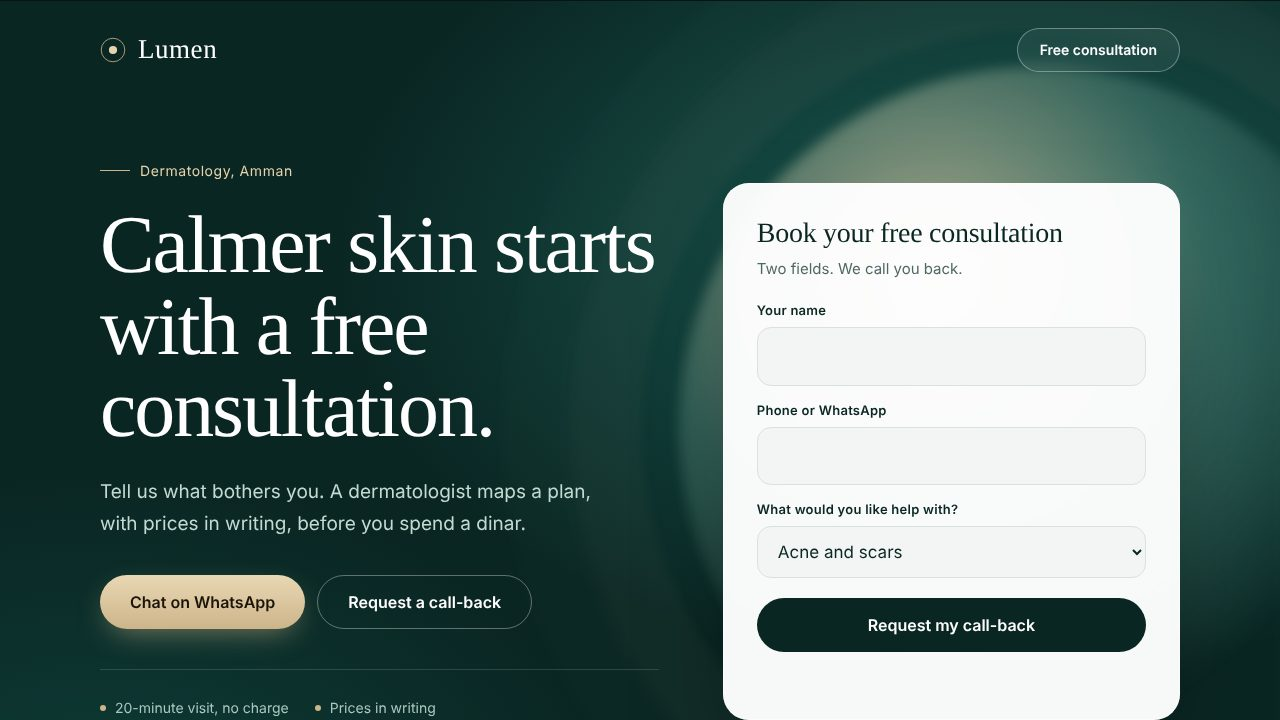
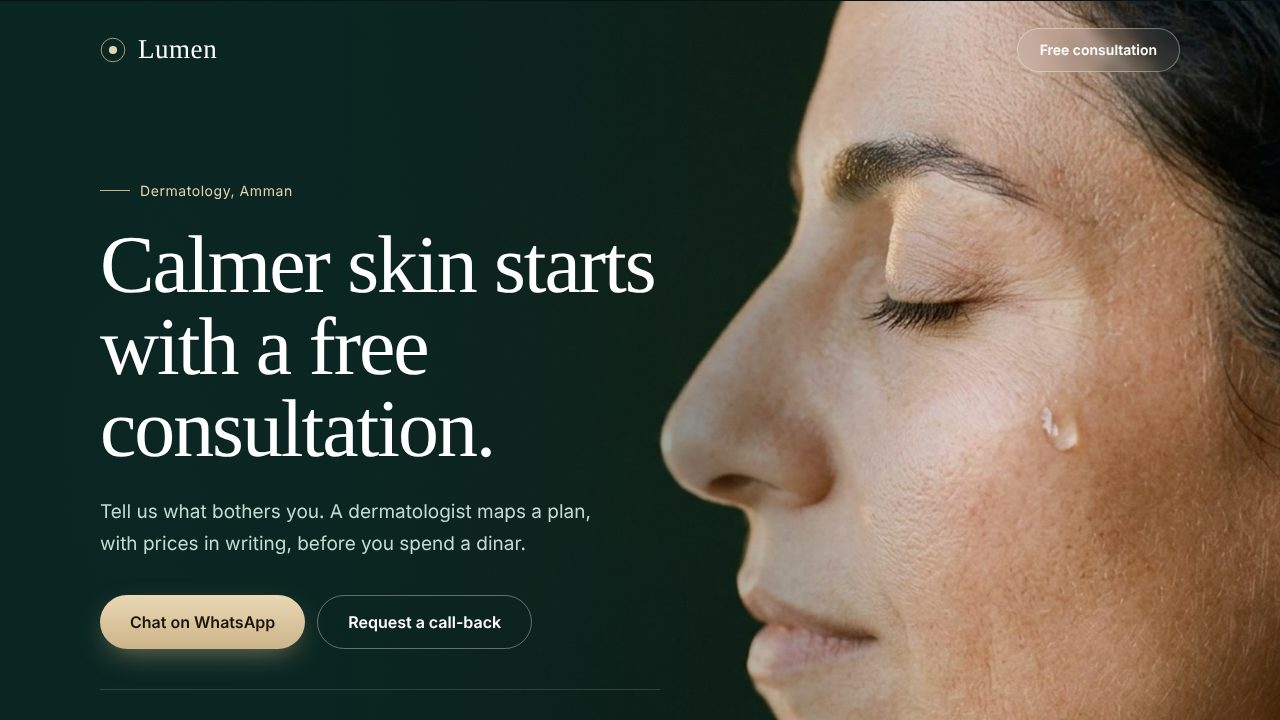
Lumen page: AI hero and clinic-room imagery, refreshed card thumbnail
Claude-Session: https://claude.ai/code/session_01JqLz8p6yrnLnjdmescFiVg

diff --git a/concepts/free-consultation.html b/concepts/free-consultation.html
@@ -31,11 +31,9 @@ nav .in{display:flex;align-items:center;justify-content:space-between;padding-to
 .btn.ghost{background:transparent;color:#fff;border:1px solid rgba(255,255,255,.35)}
 .btn.sm{padding:10px 22px;min-height:44px;font-size:14px;border:1px solid rgba(255,255,255,.35);color:#fff;background:rgba(255,255,255,.06);backdrop-filter:blur(6px)}
 .hero{background:var(--deep);color:var(--on);position:relative;overflow:hidden;isolation:isolate}
-.hero::before{content:"";position:absolute;inset:0;z-index:-2;background:radial-gradient(1100px 700px at 78% 30%,#1a5a52 0%,rgba(16,58,53,.0) 60%),radial-gradient(800px 600px at 8% 100%,#0f3f39 0%,rgba(10,38,35,0) 65%)}
-.orb{position:absolute;z-index:-1;inset-inline-end:-120px;top:70px;width:720px;height:720px;border-radius:50%;background:radial-gradient(circle at 35% 30%,rgba(255,244,222,.95) 0%,rgba(230,211,173,.75) 14%,rgba(120,170,155,.45) 40%,rgba(16,58,53,0) 70%);filter:blur(6px);opacity:.7;animation:float 14s ease-in-out infinite}
-.orb::after{content:"";position:absolute;inset:-40px;border-radius:50%;border:1px solid rgba(230,211,173,.28);box-shadow:0 0 0 70px rgba(230,211,173,.04),0 0 0 140px rgba(230,211,173,.025)}
-@keyframes float{50%{transform:translateY(-22px) scale(1.02)}}
-.hero>.in{display:grid;grid-template-columns:1.1fr .9fr;gap:64px;align-items:center;padding-top:150px;padding-bottom:110px;position:relative}
+.hero::before{content:"";position:absolute;inset:0;z-index:-2;background:linear-gradient(90deg,#0a2623 0%,rgba(10,38,35,.94) 26%,rgba(10,38,35,.4) 52%,rgba(10,38,35,0) 76%),url(../media/lumen-hero.jpg) calc(100% + 240px) center/auto 100% no-repeat #0a2623}
+.hero>.in{display:block;padding-top:170px;padding-bottom:150px;position:relative;min-height:720px}
+.hero .copy{max-width:560px}
 .kick{display:inline-flex;gap:10px;align-items:center;font-size:14px;color:var(--gold2);letter-spacing:.04em;margin-bottom:22px}
 .kick i{width:30px;height:1px;background:var(--gold)}
 .hero h1{font-family:var(--d);font-weight:300;font-size:clamp(44px,6.4vw,84px);line-height:1.0;letter-spacing:-.025em;font-variation-settings:"opsz" 144}
@@ -88,24 +86,29 @@ html[lang="ar"] .end h2{font-weight:500;line-height:1.3}
 footer{padding:30px 0 96px;font-size:13px;color:var(--mute)}
 .sticky{display:none}
 @media (max-width:860px){
- .hero>.in{grid-template-columns:1fr;gap:44px;padding-top:120px;padding-bottom:64px}
- .orb{width:460px;height:460px;top:40px}
  section{padding:72px 0}
  .step{grid-template-columns:56px 1fr;gap:6px 14px}.step .tt{grid-column:2}.step em{font-size:34px}
  .tx{grid-template-columns:1fr}
  .sticky{display:flex;position:fixed;inset-inline:12px;bottom:12px;z-index:20}
  .sticky .btn{width:100%}
 }
+
+.consult{padding:110px 0 100px}
+.consult .in{display:grid;grid-template-columns:1fr 1fr;gap:72px;align-items:center}
+.room{margin:0;position:relative;border-radius:28px;overflow:hidden;aspect-ratio:4/4.6;background:var(--mint)}
+.room img{width:100%;height:100%;object-fit:cover;display:block}
+.room figcaption{position:absolute;inset-inline:0;bottom:0;padding:70px 28px 26px;color:#fff;font-family:var(--d);font-size:24px;font-weight:300;background:linear-gradient(0deg,rgba(6,21,19,.75),rgba(6,21,19,0))}
+.consult .panel{border:1px solid var(--line);box-shadow:0 40px 80px -50px rgba(10,38,35,.35)}
+@media (max-width:860px){.consult{padding:64px 0}.consult .in{grid-template-columns:1fr;gap:36px}.room{aspect-ratio:4/4.2}.hero>.in{padding-top:120px;padding-bottom:70px;min-height:0}.hero::before{background:linear-gradient(180deg,rgba(10,38,35,.25) 0%,rgba(10,38,35,.9) 62%,#0a2623 100%),url(../media/lumen-hero.jpg) 78% top/auto 62% no-repeat #0a2623}}
 </style>
 </head>
 <body>
 <div class="bar"><div class="in"><span><span class="en">Concept page by The Hook Directors. Clinic name and offer are fictional.</span><span class="ar">صفحة مفاهيمية من ذا هوك دايركترز. اسم العيادة والعرض خياليان.</span></span><span><a href="/#landing"><span class="en">All pages</span><span class="ar">كل الصفحات</span></a> &nbsp;<button class="lang" id="lang" type="button" data-track="lang_toggle">العربية</button></span></div></div>
 
 <header class="hero">
-<div class="orb" aria-hidden="true"></div>
 <nav><div class="in"><div class="logo"><svg viewBox="0 0 32 32" fill="none" aria-hidden="true"><circle cx="16" cy="16" r="14.5" stroke="#cdb48a"/><circle cx="16" cy="16" r="5" fill="#e6d3ad"/></svg>Lumen</div><a class="btn sm" href="#book" data-track="nav_cta"><span class="en">Free consultation</span><span class="ar">استشارة مجانية</span></a></div></nav>
 <div class="in">
- <div>
+ <div class="copy">
   <p class="kick rv"><i></i><span class="en">Dermatology, Amman</span><span class="ar">طب الجلدية، عمّان</span></p>
   <h1 class="rv d1"><span class="en">Calmer skin starts with a free consultation.</span><span class="ar">بشرة أصفى تبدأ باستشارة مجانية.</span></h1>
   <p class="lede rv d2"><span class="en">Tell us what bothers you. A dermatologist maps a plan, with prices in writing, before you spend a dinar.</span><span class="ar">أخبرنا بما يزعجك. يضع طبيب الجلدية خطة واضحة بأسعار مكتوبة قبل أن تدفع أي دينار.</span></p>
@@ -115,7 +118,12 @@ footer{padding:30px 0 96px;font-size:13px;color:var(--mute)}
   </div>
   <div class="trust rv d3"><span><span class="en">20-minute visit, no charge</span><span class="ar">زيارة ٢٠ دقيقة بلا تكلفة</span></span><span><span class="en">Prices in writing</span><span class="ar">أسعار مكتوبة</span></span><span><span class="en">Reply within one working hour</span><span class="ar">رد خلال ساعة عمل</span></span></div>
  </div>
- <form class="panel rv d2" id="book" novalidate>
+ 
+</div></header>
+
+<section class="consult"><div class="in">
+ <figure class="room"><img src="../media/lumen-room.jpg" alt="A patient sits calmly by a window while a dermatologist works at a desk behind her" width="880" height="1010" loading="lazy"><figcaption><span class="en">A calm room, a real conversation.</span><span class="ar">غرفة هادئة وحديث حقيقي.</span></figcaption></figure>
+ <form class="panel" id="book" novalidate>
   <h2><span class="en">Book your free consultation</span><span class="ar">احجز استشارتك المجانية</span></h2>
   <p class="s"><span class="en">Two fields. We call you back.</span><span class="ar">حقلان فقط. نتصل بك.</span></p>
   <label for="n"><span class="en">Your name</span><span class="ar">الاسم</span></label><input id="n" name="Name" autocomplete="name" required>
@@ -126,7 +134,7 @@ footer{padding:30px 0 96px;font-size:13px;color:var(--mute)}
   <button class="btn" type="submit" data-track="form_submit_click"><span class="en">Request my call-back</span><span class="ar">اطلب مكالمتي</span></button>
   <p class="msg" id="msg" role="status" aria-live="polite"></p>
  </form>
-</div></header>
+</div></section>
 
 <section><div class="in">
  <p class="eyebrow"><span class="en">How it works</span><span class="ar">كيف يعمل</span></p>
